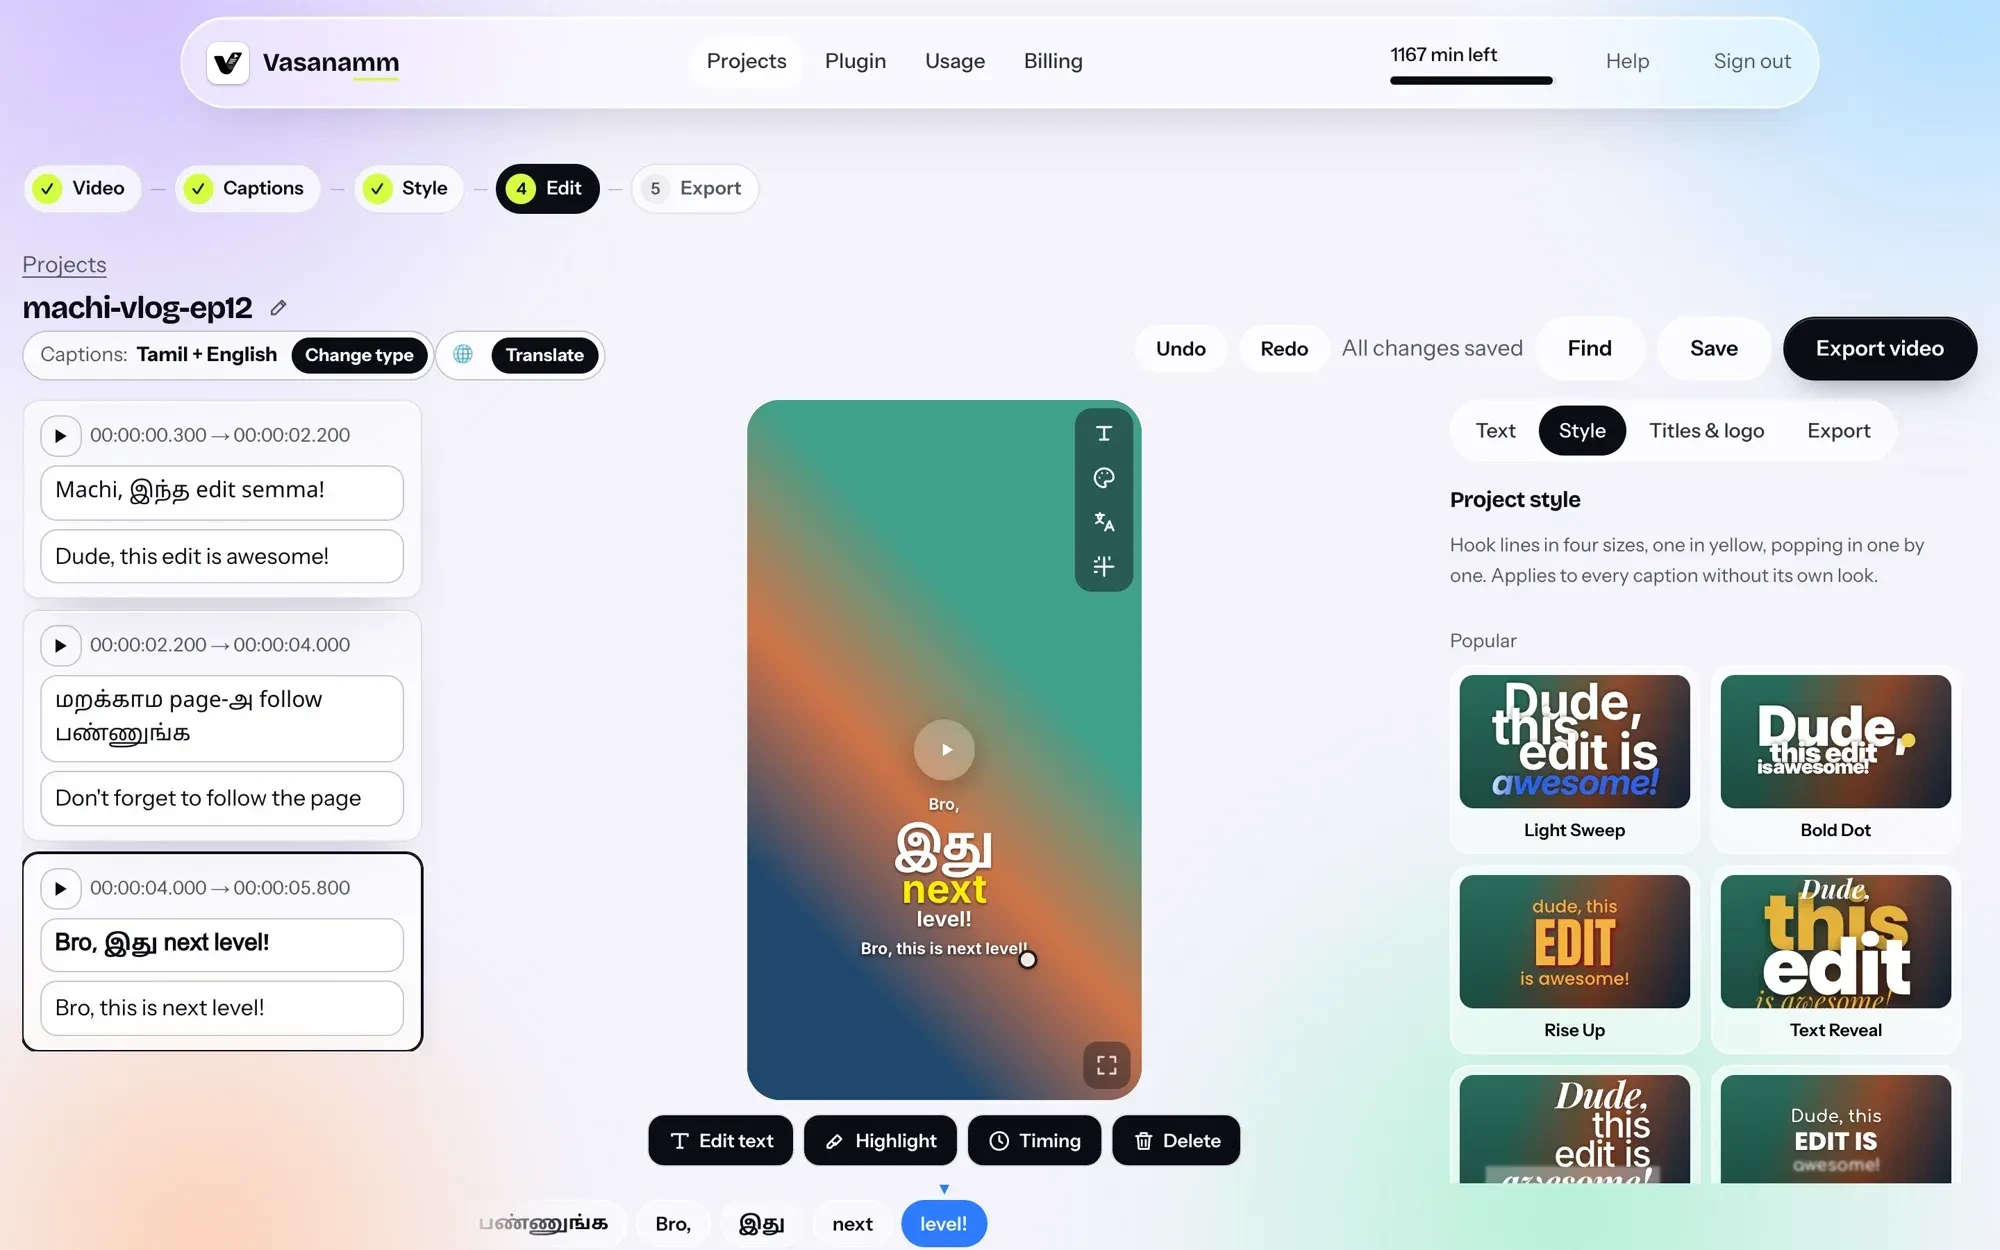
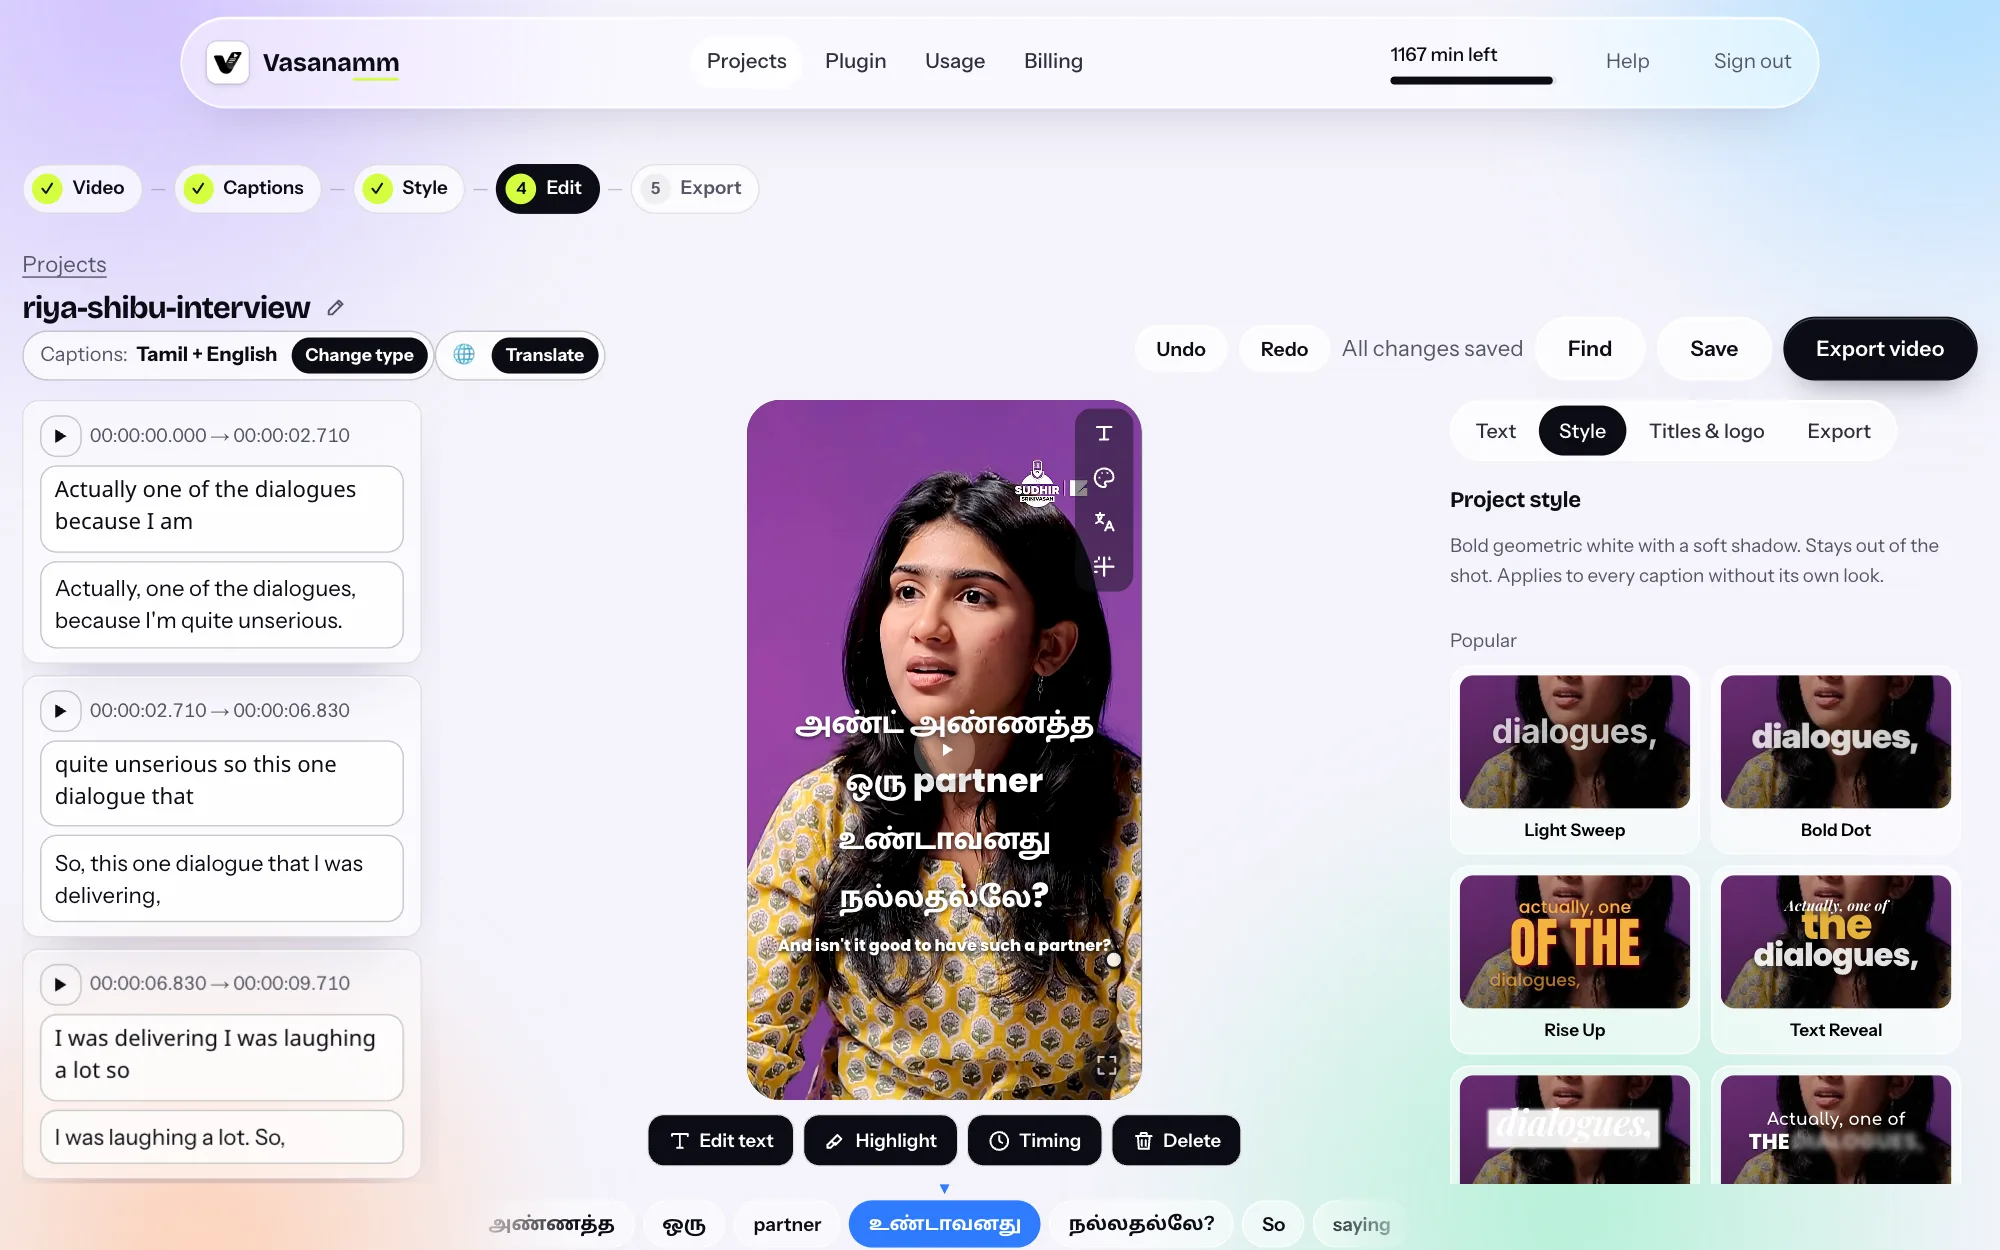
Editor section: the computer and phone screenshots now show the Riya Shibu clip with its real Vasanamm subtitles (her Tamil line), and the style list previews on her too
Claude-Session: https://claude.ai/code/session_01Vg3xd9etKGRwdzvMY3ibrV

diff --git a/components/Landing.tsx b/components/Landing.tsx
@@ -207,7 +207,7 @@ export default function Landing({ popular }: { popular: string[] }) {
                     <div className="mac-page">
                       {/* eslint-disable-next-line @next/next/no-img-element */}
                       <img src="/home/editor.webp" width={2000} height={1250} loading="lazy" alt="The Vasanamm editor on a computer: the captions in Tamil and English on the left, the video in the middle, caption styles on the right." />
-                      {[["21%", "33%"], ["37.5%", "32%"], ["71.6%", "34.4%"], ["30.2%", "91%"]].map(([x, y], i) => <span key={i} className="hm-pin" style={{ left: x, top: y }} aria-hidden="true">{i + 1}</span>)}
+                      {[["21%", "33%"], ["37.5%", "32%"], ["70.6%", "34.5%"], ["30.2%", "91%"]].map(([x, y], i) => <span key={i} className="hm-pin" style={{ left: x, top: y }} aria-hidden="true">{i + 1}</span>)}
                     </div>
                   </div>
                 </div>
